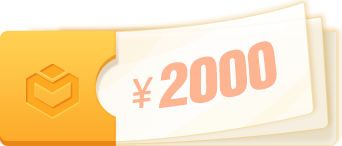
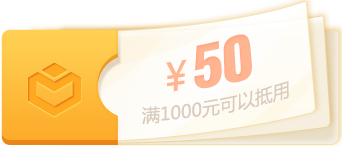
### *柏林* 【活动】需求更改

diff --git a/active10/src/views/activePage.vue b/active10/src/views/activePage.vue
@@ -57,7 +57,6 @@
             <div class="ticket_wrapper" v-if="ticket_status === 1">
               <div class="flex_item tips">恭喜您，领券成功！</div>
               <div class="flex_item"><img class="image_ticket" src="../assets/image_ticket.png" alt="" /></div>
-              <div class="flex_item openticket" @click="openticket">拆开查看 >></div>
               <section class="flex_item useTips">
                 <div>抵扣券已发送至账户：{{userInfo.mobile | filterMobile}}</div>
                 <div>
@@ -72,34 +71,41 @@
             </div>
             <!-- 活动已结束 -->
             <div class="ticket_status" v-else-if="ticket_status === 3">
-              <img src="../assets/ticket_finish.png" alt="" />
+              <img src="../assets/ticket_finish_1.png" alt="" />
             </div>
             <!-- 老用户不能参加 -->
             <div class="ticket_status" v-else-if="(!isAPP && ticket_status === 4) || showNotNewUser">
-              <img src="../assets/ticket_user.png" alt="" />
+              <img src="../assets/ticket_user_1.png" alt="" />
             </div>
           </div>
           <!-- 广告位 当前是活动盒子 -->
-          <section class="advert_box flex flex_center">
+          <!-- <section class="advert_box flex flex_center">
             <div :data-emmaBanner="positionKey" class="emma_wrap" v-if="isLogin">
               <img v-if="isDevelopment" src="../assets/advert.jpg" alt="" />
             </div>
             <div v-else class="emma_wrap" @click="returnClick">
               <img src="../assets/advert.jpg" alt="" />
             </div>
-          </section>
+          </section> -->
           <!-- 活动规则 -->
           <section class="active_rules flex flex_center">
             <article>
               <section class="rules_container" v-for="item in rules_detail" :key="item.title">
-                <div class="rules_title" :class="{title__ticket: item.isTicket}">
-                  <h4>{{item.title}}</h4>
+                <div class="flex flex_center">
+                  <div class="rules_title" :class="{title__ticket: item.isTicket}">
+                    <h4>{{item.title}}</h4>
+                  </div>
                 </div>
                 <p class="rules_item" v-for="(rule, index) in item.list" :key="index">
-                  {{index * 1 + 1}}.{{rule}}
+                  <span v-if="index < item.list.length - 1">{{index * 1 + 1}}.</span>
+                  <span v-html="rule"></span>
                 </p>
               </section>
             </article>
+          </section>
+          <!-- 合作伙伴 -->
+          <section class="active_partner flex flex_center">
+            <img src="../assets/bizpartner.png">
           </section>
         </section>
       </section>
@@ -111,8 +117,6 @@
       <article>
         <section class="agreeTxt" v-html="agreeTxt"></section>
       </article>
-    </van-popup>
-    <van-popup v-model="showTickets" class="popup_tickets" overlay-class="overlay_ticket">
     </van-popup>
   </section>
 </template>
@@ -162,13 +166,13 @@ export default {
       disabled: false,
       timerNum: 59,
       showUserAgree: false,
-      showTickets: false,
       agreeTxt: userAgreeMent,
       isLogin: null, // 是否已登录
       isAPP: false, // 是否APP内
       app_ios: false,
       app_andriod: false,
       ticket_status: null, // 1: 已领取 2: 已抢完 3: 活动结束 4：老用户
+      active_startDate: 1536364800000,
       showNotNewUser: false, // 显示老用户view
       userInfo: {}, // 用户信息
       isDevelopment,
@@ -176,24 +180,13 @@ export default {
       rules_detail: [{
         title: '活动规则',
         list: [
-          '本次活动仅限活动期间内麦邻租房新注册用户领取1次，每个用户仅限使用其中1张；',
-          '本次租房抵扣券仅限用于抵扣非金融房源在线签约订单月租金；',
-          '每人每个房间订单仅限使用1张抵扣券；',
-          '租房抵扣券不可叠加使用，不得与其他优惠同时使用，不可兑现以及用于租房其他费用，消费抵扣后不予退还；',
-          '本次活动抵扣券使用限制城市（上海、杭州），领取不限制；',
-          '更多租房优惠活动咨询客服:400-882-7099；',
-          '本次活动最终解释权归麦邻租房所有；'
-        ]
-      }, {
-        title: '优惠券使用说明',
-        isTicket: true,
-        list: [
-          '仅限活动期间领取，自领取日起90天内有效，逾期作废；',
-          '满1000元-2999元月租金可抵扣50元；',
-          '满3000元-4999元月租金可抵扣150元；',
-          '满5000元-6999元月租金可抵扣300元；',
-          '满7000元-9999元月租金可抵扣500元；',
-          '满10000元以上月租金可抵扣1000元；'
+          '本次活动仅限麦邻租房活动期间新注册用户领取，每人仅限领取和使用1次；',
+          '本次活动租房抵扣券为50元面值，可用于抵扣非金融房源在线签约且在线支付，首笔月租金≥1000元的订单；',
+          '租房抵扣券不可叠加使用，不得与其他优惠同时使用，不可兑现及用于租房其他费用抵扣，消费抵扣后不予退还；',
+          '本次活动抵扣券仅限上海、杭州租房抵扣使用；',
+          '抵扣券仅限活动期间领取，自领取日起30天内有效，逾期作废；',
+          '活动严禁作弊行为，一经查出，取消活动权益资格。<br>本活动解释权归麦邻租房所有。',
+          '咨询电话：400-882-7099'
         ]
       }]
     }
@@ -384,57 +377,62 @@ export default {
      * 登录
      */
     loginMethod () {
-      Dialog.alert({
-        message: '不要着急哦，活动暂未开始！'
-      }).then(() => {})
-
-      // if (this.isAPP) {
-      //   if (!this.isLogin) {
-      //     // 未登录调用登录方法
-      //     let bridgeParam = {
-      //       libCode: 5001,
-      //       refresh: true
-      //     }
-      //     if (this.app_andriod === true) {
-      //       // eslint-disable-next-line
-      //       try {
-      //         console.log(bridgeParam)
-      //         window.SetupJsCommunication.jumpToNativePages(JSON.stringify(bridgeParam))
-      //       } catch (error) {
-      //         this.$toast('fail', 'Andriod调用失败')
-      //         console.log(error)
-      //       }
-      //     } else if (this.app_ios === true) {
-      //       Bridge.callHandler('jumpToNativePages', bridgeParam, function responseCallback (responseData) {
-      //         console.log(responseData)
-      //         window.location.href = window.location.href
-      //       })
-      //     } else {
-      //       console.log('H5')
-      //     }
-      //   } else {
-      //     if (this.isAPP && this.ticket_status === 4) {
-      //       Dialog.alert({
-      //         message: '您不是活动期间内新注册的用户<br>无法参与哦！'
-      //       }).then(() => {
-      //         this.showNotNewUser = true
-      //       })
-      //       return false
-      //     }
-      //     // 已登录获取优惠券
-      //     this.getTickets(this.userInfo.sessionId)
-      //   }
-      //   return false
-      // }
-      // if (!this.mobile) {
-      //   this.$toast('fail', '请输入手机号')
-      //   return false
-      // }
-      // if (!this.vcode) {
-      //   this.$toast('fail', '请输入验证码')
-      //   return false
-      // }
-      // this.login()
+      let tempDateTime = new Date().getTime()
+      if (tempDateTime < this.active_startDate) {
+        Dialog.alert({
+          message: '不要着急嘛，活动暂未开始！'
+        }).then(() => {
+          this.showNotNewUser = true
+        })
+        return false
+      }
+      if (this.isAPP) {
+        if (!this.isLogin) {
+          // 未登录调用登录方法
+          let bridgeParam = {
+            libCode: 5001,
+            refresh: true
+          }
+          if (this.app_andriod === true) {
+            // eslint-disable-next-line
+            try {
+              console.log(bridgeParam)
+              window.SetupJsCommunication.jumpToNativePages(JSON.stringify(bridgeParam))
+            } catch (error) {
+              this.$toast('fail', 'Andriod调用失败')
+              console.log(error)
+            }
+          } else if (this.app_ios === true) {
+            Bridge.callHandler('jumpToNativePages', bridgeParam, function responseCallback (responseData) {
+              console.log(responseData)
+              window.location.href = window.location.href
+            })
+          } else {
+            console.log('H5')
+          }
+        } else {
+          if (this.isAPP && this.ticket_status === 4) {
+            Dialog.alert({
+              message: '您不是活动期间内新注册的用户<br>无法参与哦！'
+            }).then(() => {
+              this.showNotNewUser = true
+            })
+            return false
+          }
+          // 已登录获取优惠券
+          this.getTickets(this.userInfo.sessionId)
+        }
+        return false
+      }
+      if (!this.mobile) {
+        this.$toast('fail', '请输入手机号')
+        return false
+      }
+      if (!this.vcode) {
+        this.$toast('fail', '请输入验证码')
+        return false
+      }
+      this.login()
     },
     login () {
       customerApi.login({
@@ -477,12 +475,7 @@ export default {
         this.timerNum = 59
       })
     },
-    /**
-     * 查看优惠券
-     */
-    openticket () {
-      this.showTickets = true
-    },
+
     /**
      * 用户协议
      */
@@ -622,11 +615,11 @@ export default {
         text-align: center;
         display: flex;
         flex-direction: column;
-        align-content: space-between;
+        justify-content: center;
         align-items: center;
         font-size: 24px;
         .flex_item {
-          margin-bottom: 40px;
+          margin-bottom: 60px;
           &:last-child {
             margin-bottom: 0;
             line-height: 40px;
@@ -664,6 +657,7 @@ export default {
     padding: 20px;
   }
   .active_rules {
+    margin-top: 60px;
     color: #7176ea;
     article {
       width: 625px;
@@ -680,7 +674,7 @@ export default {
         }
         h4 {
           position: relative;
-          top: -22px;
+          top: -60px;
           font-size: 30px;
         }
       }
@@ -689,13 +683,15 @@ export default {
       }
     }
   }
+  .active_partner {
+    margin-top: 60px;
+    img {
+      width: 630px;
+      height: 135px;
+    }
+  }
 }
-.popup_tickets {
-  width: 624px;
-  height: 847px;
-  background: url('../assets/image_ticket__all.png') no-repeat center center;
-  background-size: cover;
-}
+
 .overlay_ticket {
   background-color: rgba(0, 0, 0, 0.6)
 }

diff --git a/vr/src/views/Fhtvr.vue b/vr/src/views/Fhtvr.vue
@@ -337,6 +337,8 @@ export default {
         return false
       }
       Toast.clear(toastFunc)
+      window.player.view = 0
+      console.log('view初始值：' + player.view)
       try {
         this.$nextTick(() => {
           window.player(defaultOptions)
